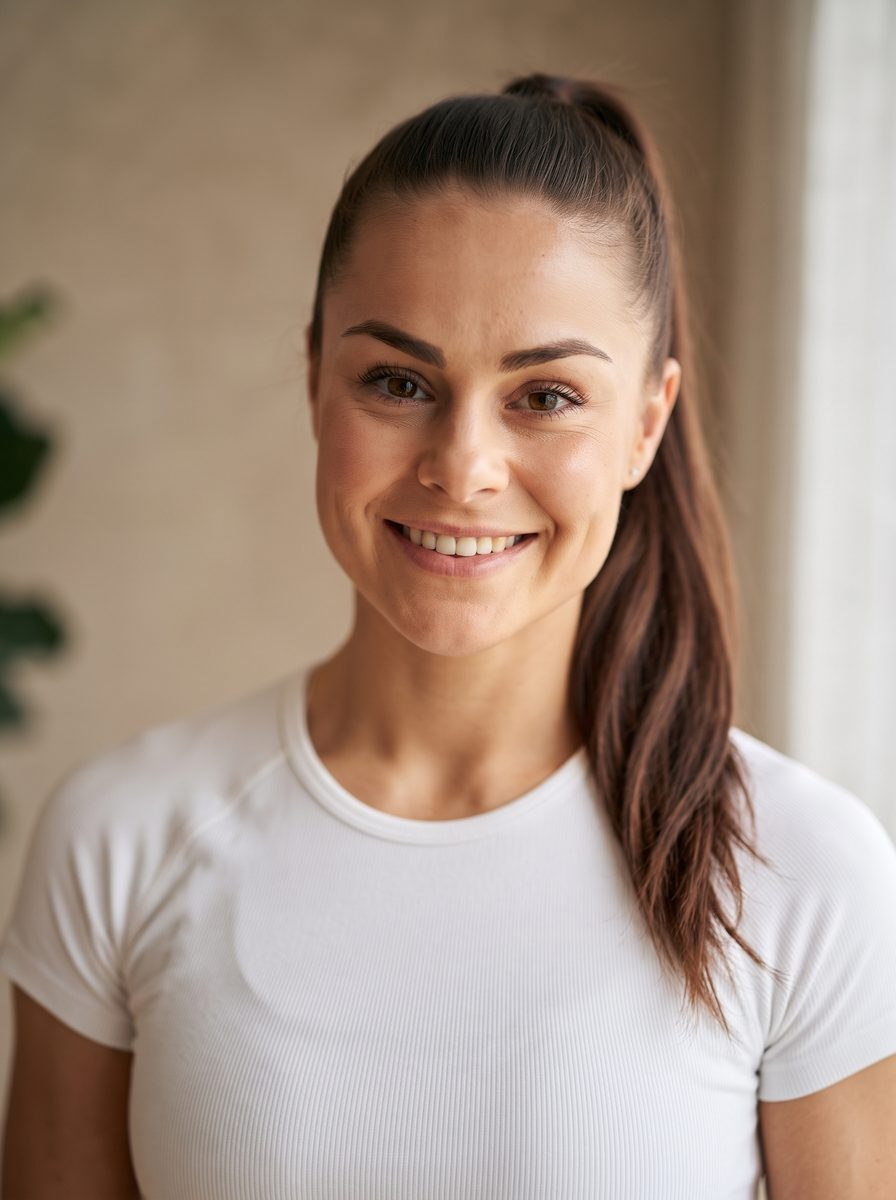
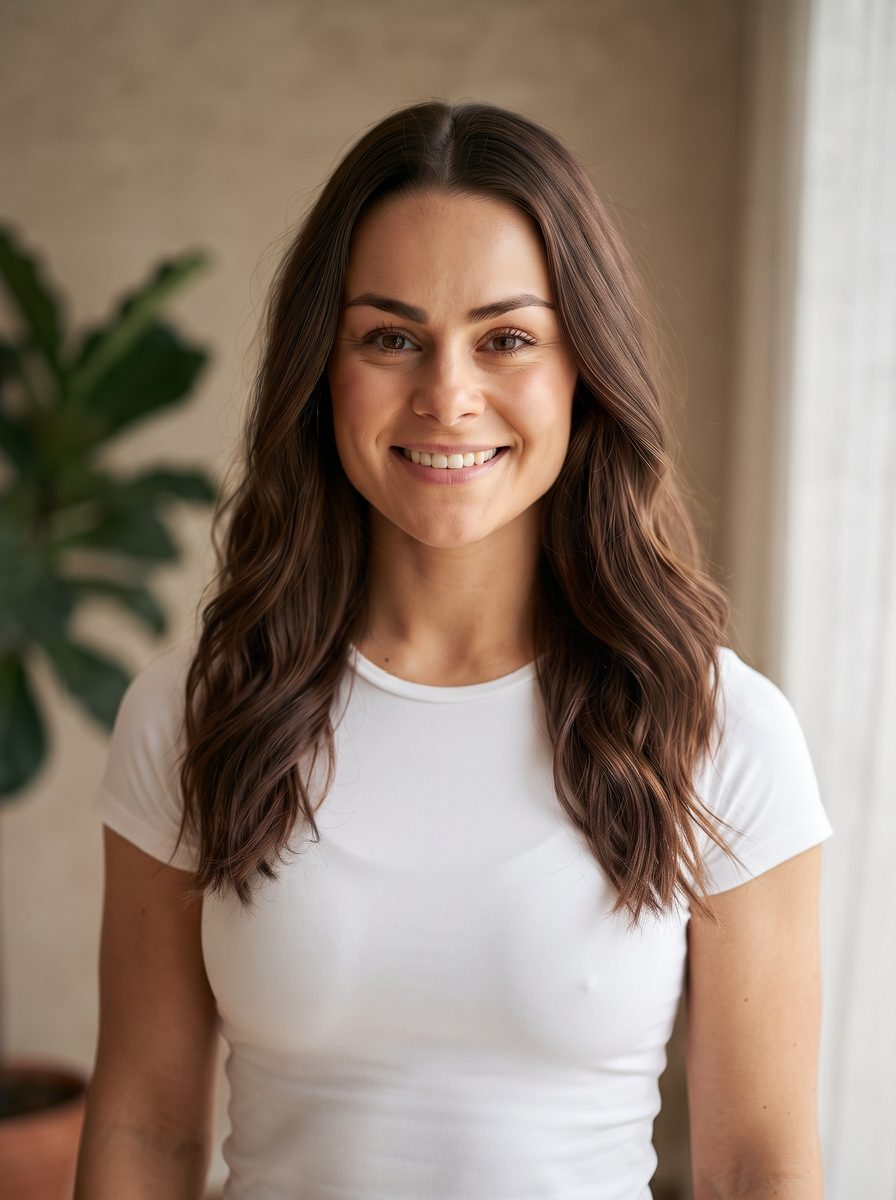
Regenerate Alina set (varied hair/outfit/location) + dramatic before/after cases + copy fixes

diff --git a/src/pages/Home.tsx b/src/pages/Home.tsx
@@ -31,7 +31,7 @@ const results = [
 
 const steps = [
   { n: '01', title: 'Выбор мини-курса', text: 'Короткие программы под свою цель: 3–7 дней, 15–20 минут в день. Спокойно выберите зону тела.' },
-  { n: '02', title: 'Безопасная оплата', text: 'Оплата проходит через ЮKassa. Карта, СБП и привычные способы — без лишних шагов.' },
+  { n: '02', title: 'Безопасная оплата', text: 'Оплата картой или через СБП — безопасно и без лишних шагов.' },
   { n: '03', title: 'Мгновенный доступ', text: 'Сразу после оплаты открывается личный кабинет. Уроки и PDF уже на месте.' },
   { n: '04', title: 'Онлайн-просмотр', text: 'Видео смотрятся только в кабинете. Скачать архив нельзя — так мы бережём материалы. PDF можно сохранить себе.' },
 ];
@@ -99,7 +99,7 @@ export default function Home() {
               <ButtonLink to="/#about" variant="ghost">Об Алине</ButtonLink>
             </div>
             <p className="mt-8 text-[13px] tracking-wide text-muted">
-              Методики реальных тренеров · мягкая сила без изнурения
+              Авторские программы Алины · мягкая сила без изнурения
             </p>
           </FadeIn>
 
@@ -177,8 +177,8 @@ export default function Home() {
               Спокойный экспертный <span className="italic">голос тела</span>
             </h2>
             <p className="mt-6 max-w-xl text-[15px] leading-relaxed text-stone">
-              Алина — ваш проводник в домашний фитнес. Её программы собраны по методикам
-              реальных тренеров и проверенным источникам: без магии, без «волшебных таблеток»
+              Алина — ваш проводник в домашний фитнес. Её программы построены на проверенных
+              методиках домашних тренировок: без магии, без «волшебных таблеток»
               и обещаний «новой жизни за неделю».
             </p>
             <p className="mt-4 max-w-xl text-[15px] leading-relaxed text-stone">
@@ -187,8 +187,8 @@ export default function Home() {
             </p>
             <div className="mt-8 grid grid-cols-3 gap-3">
               {[
-                ['24/7', 'рядом с тобой'],
-                ['100+', 'проверенных источников'],
+                ['24/7', 'на связи с тобой'],
+                ['15–20', 'минут в день'],
                 ['0', 'осуждения и давления'],
               ].map(([n, l]) => (
                 <div key={l} className="rounded-[22px] bg-cream px-3 py-4 text-center">

diff --git a/scripts/kie_before_after.py b/scripts/kie_before_after.py
@@ -1,29 +1,30 @@
 #!/usr/bin/env python3
-"""Генерация кейсов «до/после»: before (текст) -> upload -> after (image_input=before)."""
+"""Кейсы «до/после»: полнее → заметно худее. after через gpt-image-2-image-to-image."""
 import os, json, time, urllib.request
 
 ENV = os.path.expanduser("~/credentials/kie.env")
 API = "https://api.kie.ai"
 OUT = "/home/hermes/alina-body/content/char"
-MODEL = "nano-banana-2"
-ASPECT = "4:5"
+BEFORE_MODEL = "nano-banana-2"
+AFTER_MODEL = "gpt-image-2-image-to-image"
+ASPECT = "3:4"
 RES = "2K"
 
 CASES = [
     {
         "name": "anya",
-        "before": "Photorealistic full-body amateur photo of a young woman around 24 with a soft average body, standing facing the camera, wearing dark grey leggings and a loose grey t-shirt, plain light wall background, neutral tired expression, no makeup, realistic candid smartphone photo",
-        "after": "The same woman as in the reference image, but noticeably slimmer and more toned after months of training: firmer waist, toned arms and legs, better posture, a confident slight smile, wearing the same dark grey leggings and grey t-shirt, same plain light wall background, photorealistic full-body shot",
+        "before": "Photorealistic full-body amateur photo of a young woman around 24 with a fuller, softer figure, rounder midsection, fuller arms and thighs, standing facing the camera, wearing dark grey leggings and a loose grey t-shirt, plain light wall background, neutral tired expression, no makeup, realistic candid smartphone photo",
+        "after": "The same woman as in the reference image but visibly much slimmer and more toned: flat stomach, slim arms and legs, slimmer face with a confident smile, wearing the same dark grey leggings and grey t-shirt, same plain light wall background, photorealistic full-body shot",
     },
     {
         "name": "marina",
-        "before": "Photorealistic full-body amateur photo of a young woman around 28 with a soft midsection and average body, standing facing the camera, wearing black leggings and a light blue top, plain home background, neutral expression, realistic candid smartphone photo",
-        "after": "The same woman as in the reference image, but with a visibly flatter stomach, firmer waist and more toned legs after training, better posture, gentle smile, wearing the same black leggings and light blue top, same plain home background, photorealistic full-body shot",
+        "before": "Photorealistic full-body amateur photo of a young woman around 28 with a fuller figure, rounder belly and softer arms, standing facing the camera, wearing black leggings and a light blue top, plain home background, neutral expression, realistic candid smartphone photo",
+        "after": "The same woman as in the reference image but visibly slimmer with a defined waist, firmer legs, slimmer face, gentle smile, wearing the same black leggings and light blue top, same home background, photorealistic full-body shot",
     },
     {
         "name": "polina",
-        "before": "Photorealistic full-body amateur photo of a young woman around 22 with a slight skinny-fat build, standing facing the camera, wearing navy leggings and a white top, plain light background, neutral expression, realistic candid smartphone photo",
-        "after": "The same woman as in the reference image, but with more muscle tone in her arms, legs and glutes, a firmer waist and upright posture, bright confident smile, wearing the same navy leggings and white top, same plain light background, photorealistic full-body shot",
+        "before": "Photorealistic full-body amateur photo of a young woman around 22 with a softer, rounder figure and fuller hips and thighs, standing facing the camera, wearing navy leggings and a white top, plain light background, neutral expression, realistic candid smartphone photo",
+        "after": "The same woman as in the reference image but slim and toned: flat stomach, slender legs, slimmer face, bright confident smile, wearing the same navy leggings and white top, same background, photorealistic full-body shot",
     },
 ]
 
@@ -48,13 +49,13 @@ def req(url, key, payload=None, method=None):
     return json.loads(urllib.request.urlopen(r, timeout=60).read())
 
 
-def generate(key, prompt, reference=None):
+def generate(key, model, prompt, reference=None):
     inp = {"prompt": prompt, "aspect_ratio": ASPECT, "resolution": RES, "output_format": "jpg"}
     if reference:
         inp["image_input"] = [reference]
-    r = req(f"{API}/api/v1/jobs/createTask", key, {"model": MODEL, "input": inp})
+    r = req(f"{API}/api/v1/jobs/createTask", key, {"model": model, "input": inp})
     if r.get("code") != 200:
-        raise RuntimeError("createTask fail: " + json.dumps(r)[:300])
+        raise RuntimeError("createTask fail: " + json.dumps(r)[:400])
     tid = r["data"]["taskId"]
     deadline = time.time() + 600
     while time.time() < deadline:
@@ -71,7 +72,7 @@ def generate(key, prompt, reference=None):
 
 def upload_supabase(supabase, key, path, data):
     url = f"{supabase}/storage/v1/object/alina-media/char/{path}"
-    headers = {"apikey": key, "Authorization": "Bearer " + key, "Content-Type": "image/jpeg"}
+    headers = {"apikey": key, "Authorization": "Bearer " + key, "Content-Type": "image/jpeg", "x-upsert": "true"}
     r = urllib.request.Request(url, data=data, headers=headers, method="POST")
     urllib.request.urlopen(r, timeout=120).read()
     return f"{supabase}/storage/v1/object/public/alina-media/char/{path}"
@@ -88,26 +89,24 @@ def main():
     for c in CASES:
         name = c["name"]
         print(f"=== {name}: before ===", flush=True)
-        before_url = generate(kie, c["before"])
+        before_url = generate(kie, BEFORE_MODEL, c["before"])
         before_path = f"{OUT}/{name}-before.jpg"
         urllib.request.urlretrieve(before_url, before_path)
         pub = upload_supabase(supabase, sup_key, f"{name}-before.jpg", open(before_path, "rb").read())
-        print(f"  before загружен: {pub}", flush=True)
+        print(f"  before ok", flush=True)
 
-        print(f"=== {name}: after ===", flush=True)
-        after_url = generate(kie, c["after"], reference=pub)
+        print(f"=== {name}: after (gpt-image-2 edit) ===", flush=True)
+        after_url = generate(kie, AFTER_MODEL, c["after"], reference=pub)
         after_path = f"{OUT}/{name}-after.jpg"
         urllib.request.urlretrieve(after_url, after_path)
         pub2 = upload_supabase(supabase, sup_key, f"{name}-after.jpg", open(after_path, "rb").read())
-        print(f"  after загружен: {pub2}", flush=True)
+        print(f"  after ok", flush=True)
 
         result.append({"name": name, "before": pub, "after": pub2})
 
     print("\n=== ГОТОВО ===")
     for r in result:
-        print(f"{r['name']}:")
-        print(f"  before: {r['before']}")
-        print(f"  after:  {r['after']}")
+        print(f"{r['name']}: {r['before']} | {r['after']}")
 
 
 if __name__ == "__main__":

diff --git a/scripts/kie_batch.py b/scripts/kie_batch.py
@@ -1,5 +1,5 @@
 #!/usr/bin/env python3
-"""Пакетная генерация сета персонажа Алины (параллельно) через kie.ai."""
+"""Сет Алины: разные причёски/одежда/локации под каждое место на сайте."""
 import os, json, time, urllib.request
 
 ENV = os.path.expanduser("~/credentials/kie.env")
@@ -9,21 +9,35 @@ OUT_DIR = "/home/hermes/alina-body/content/char"
 MODEL = "nano-banana-2"
 ASPECT = "3:4"
 RES = "2K"
-BASE = "The same woman as in the reference image (same face, same hair, same body type) "
+BASE = "The same woman as in the reference image (same face) "
 
 SHOTS = {
-    "lunge": BASE + "performing a forward lunge, side profile, black leggings and a grey sports top, bright home living room, photorealistic, natural daylight, full body shot",
-    "plank": BASE + "holding a forearm plank on a yoga mat, black leggings and a dark sports top, bright home setting, photorealistic, natural light, full body shot",
-    "glute-bridge": BASE + "doing a glute bridge on a yoga mat, black leggings and a pink sports top, bright home setting, photorealistic, full body shot",
-    "stretch": BASE + "stretching with both arms raised overhead, light blue sports outfit, bright home, photorealistic, full body shot",
-    "resistance-band": BASE + "doing a lateral band walk with a fabric resistance band around her thighs, black leggings and a sports top, bright home, photorealistic, full body shot",
-    "side-plank": BASE + "holding a side plank on a yoga mat, maroon sports top and black leggings, bright home, photorealistic, full body shot",
-    "sportswear": BASE + "standing in a stylish matching sportswear set (pastel leggings and sports bra), confident pose, bright minimal studio background, photorealistic, fashion fitness photography, full body shot",
-    "casual": BASE + "standing in a casual outfit of blue jeans and a white t-shirt, relaxed smile, bright home background, photorealistic, lifestyle photography, full body shot",
-    "post-workout": BASE + "after a workout wiping her face with a small towel and holding a water bottle, smiling, wearing sports clothes, bright home setting, photorealistic, candid fitness photography",
-    "outdoor": BASE + "standing in a green park with trees in the background, wearing sportswear, golden hour sunlight, photorealistic, outdoor fitness photography, full body shot",
-    "confident": BASE + "standing with arms crossed and a confident smile, black sports outfit, bright studio background, photorealistic, professional fitness photography, full body shot",
-    "portrait-smile": BASE + "close-up head-and-shoulders portrait with a warm genuine smile looking at camera, soft natural light, photorealistic",
+    # hero — спорт-лук, уверенная, светлая студия
+    "sportswear": BASE + "standing confidently in a bright modern gym studio, hair in a high ponytail, matching pastel sports set (leggings and sports bra), relaxed confident smile, photorealistic full-body shot, fashion fitness photography",
+    # мини-курсы — присед дома
+    "squat": BASE + "doing a bodyweight squat in a bright home living room, side profile, hair in a messy bun, black leggings and a grey sports top, photorealistic, natural daylight, full-body shot",
+    # об Алине — повседневный, кафе
+    "casual": BASE + "sitting relaxed at a cozy cafe with a cup of tea, hair down in soft waves, blue jeans and a cream knit sweater, warm genuine smile, photorealistic, lifestyle photography",
+    # выпад — парк
+    "lunge": BASE + "doing a forward lunge outdoors in a green park, side profile, hair in a high ponytail, navy athleisure set, golden daylight, photorealistic, full-body shot",
+    # планка — дома на коврике
+    "plank": BASE + "holding a forearm plank on a yoga mat at home, hair in a low bun, black sports top and leggings, photorealistic, natural light, full-body shot",
+    # ягодичный мостик — дома
+    "glute-bridge": BASE + "doing a glute bridge on a yoga mat at home, hair in a ponytail, pink sports top and black leggings, photorealistic, full-body shot",
+    # растяжка — студия
+    "stretch": BASE + "stretching with both arms raised overhead in a bright gym studio, hair down, light blue sports outfit, photorealistic, full-body shot",
+    # резинка — дома
+    "resistance-band": BASE + "doing a lateral band walk with a fabric resistance band around her thighs, hair in a messy bun, black leggings and a white tank top, bright home, photorealistic, full-body shot",
+    # боковая планка — дома, на полу
+    "side-plank": BASE + "holding a side plank on a yoga mat, firmly grounded on the floor propped on her forearm, hair in a ponytail, maroon sports top and black leggings, bright home, photorealistic, full-body shot",
+    # после тренировки — дома
+    "post-workout": BASE + "after a workout, sitting on a yoga mat wiping her face with a small towel, hair in a messy bun, gentle tired smile, water bottle beside her, wearing sports clothes, bright home, photorealistic",
+    # улица — парк, бег
+    "outdoor": BASE + "jogging lightly on a path in a green park, hair in a ponytail, bright running outfit, golden hour sunlight, photorealistic, outdoor fitness photography, full-body shot",
+    # уверенная — студия
+    "confident": BASE + "standing with arms crossed and a confident smile, hair down, black sports outfit, bright studio background, photorealistic, professional fitness photography, full-body shot",
+    # портрет — крупно, улыбка
+    "portrait-smile": BASE + "close-up head-and-shoulders portrait with a warm genuine smile, hair down with soft waves, soft natural window light, photorealistic",
 }
 
 
@@ -48,7 +62,6 @@ def main():
     key = load_key()
     os.makedirs(OUT_DIR, exist_ok=True)
 
-    # 1. Отправляем все задачи (параллельно)
     tasks = {}
     for name, prompt in SHOTS.items():
         inp = {"prompt": prompt, "aspect_ratio": ASPECT, "resolution": RES, "output_format": "jpg", "image_input": [REF]}
@@ -61,7 +74,6 @@ def main():
 
     print(f"Отправлено задач: {len(tasks)}", flush=True)
 
-    # 2. Поллинг всех до завершения
     done = {}
     deadline = time.time() + 900
     while tasks and time.time() < deadline:
@@ -80,7 +92,6 @@ def main():
                 del tasks[name]
                 print(f"  {name}: {st}", flush=True)
 
-    # 3. Скачиваем
     ok, bad = [], []
     for name, d in done.items():
         if d.get("state") != "success":
@@ -102,8 +113,6 @@ def main():
         print(f"  + {n}.jpg")
     for n, err in bad:
         print(f"  ! {n}: {err}")
-    if tasks:
-        print(f"Таймаут: не завершились {list(tasks.keys())}")
 
 
 if __name__ == "__main__":
